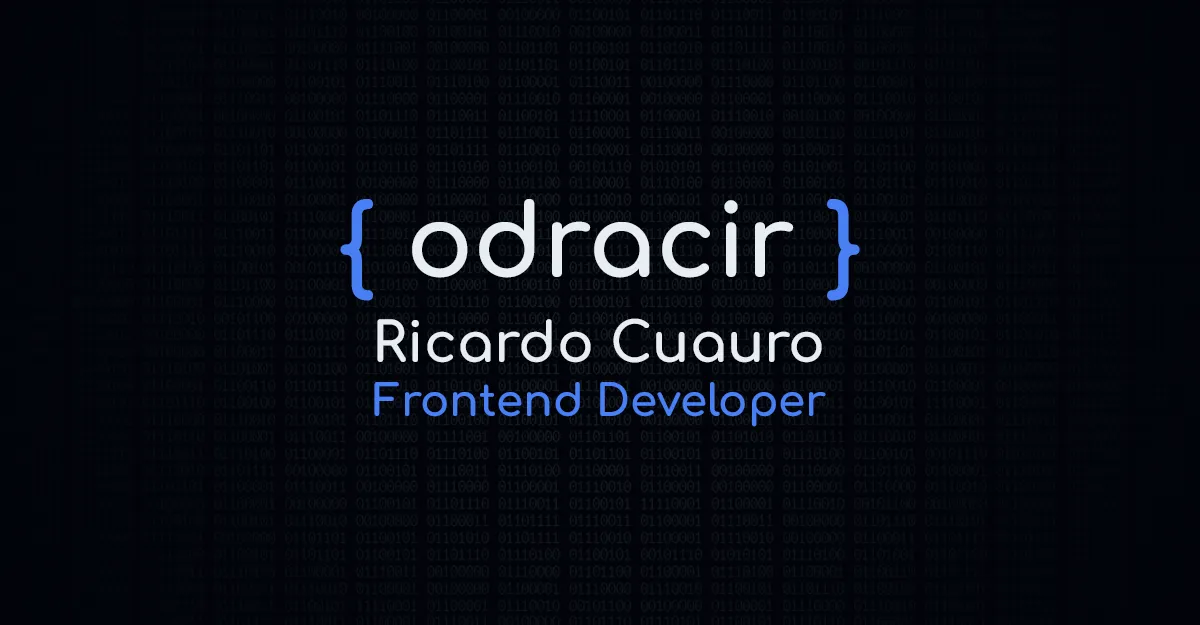
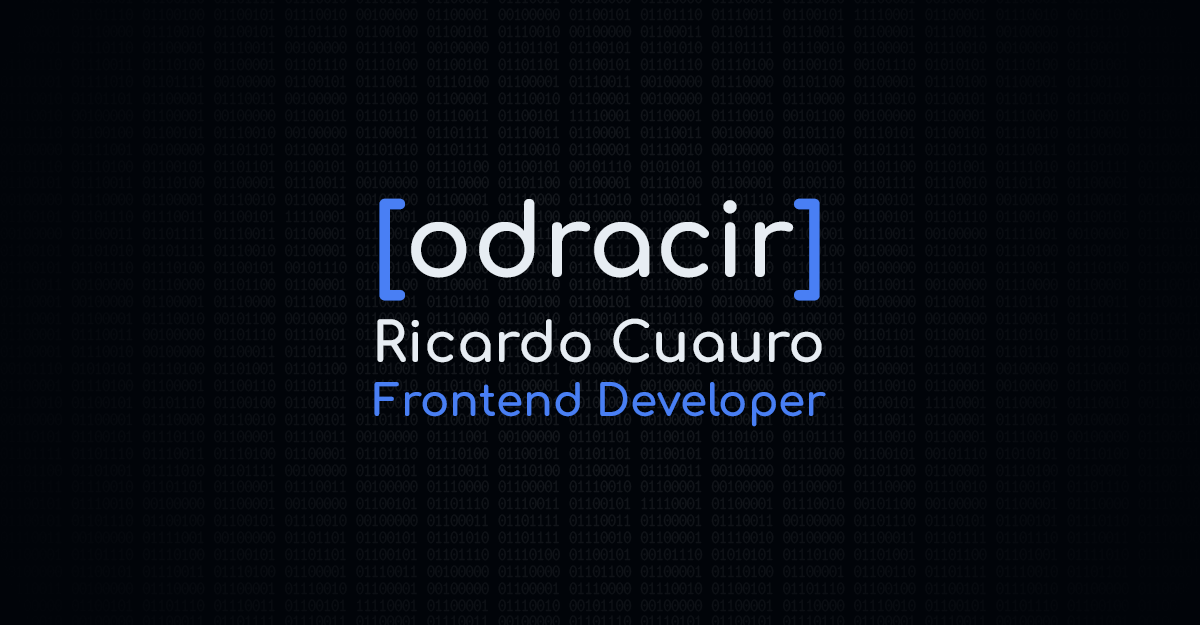
Fixing issues with fonts

diff --git a/assets/css/style.css b/assets/css/style.css
@@ -3,6 +3,47 @@
     --light-primary: #e7edf3;
     --blue-primary: #497ff4;
 }
+@font-face {
+    font-family: 'Comfortaa';
+    font-style: bold;
+    font-weight: 700;
+    src: 
+    local("Comfortaa"),
+    url("../fonts/Comfortaa.woff2") format("woff2");
+}
+@font-face {
+    font-family: 'VictorMono-Regular';
+    font-style: normal;
+    font-weight: 400;
+    src: 
+    local("VictorMono-Regular"),
+    url("../fonts/VictorMono-Regular.woff2") format("woff2");
+}
+@font-face {
+    font-family: 'VictorMono-Italic';
+    font-style: normal;
+    font-weight: 400;
+    src: 
+    local("VictorMono-Italic"),
+    url("../fonts/VictorMono-Italic.woff2") format("woff2");
+}
+@font-face {
+    font-family: 'VictorMono-Bold';
+    font-style: bold;
+    font-weight: 700;
+    src: 
+    local("VictorMono-Bold"),
+    url("../fonts/VictorMono-Bold.woff2") format("woff2");
+}
+@font-face {
+    font-family: 'VictorMono-BoldItalic';
+    font-style: bold;
+    font-weight: 700;
+    src: 
+    local("VictorMono-BoldItalic"),
+    url("../fonts/VictorMono-BoldItalic.woff2") format("woff2");
+}
+
 * {
     box-sizing: border-box;
     margin: 0;
@@ -10,8 +51,8 @@
 }
 html {
     font-size: 62.5%;
-    font-family: 'Victor Mono', monospace;
     color: var(--light-primary);
+    font-family: 'VictorMono-Regular', monospace;
 }
 body {
     background-color: var(--dark-primary);

diff --git a/index.html b/index.html
@@ -3,7 +3,7 @@
   <head>
     <meta charset="UTF-8" />
     <meta name="viewport" content="width=device-width, initial-scale=1.0" />
-    <title>odracir 🧑🏻💻</title>
+    <title>odracir 🧑🏻💻 | Frontend Developer</title>
     <meta name="description" content="Frontend Developer: HTML5, CSS3, JavaScript Vanilla and more...">
     <meta property="og:title" content="odracir 🧑🏻💻">
     <meta property="og:image" content="./assets/social.webp">
